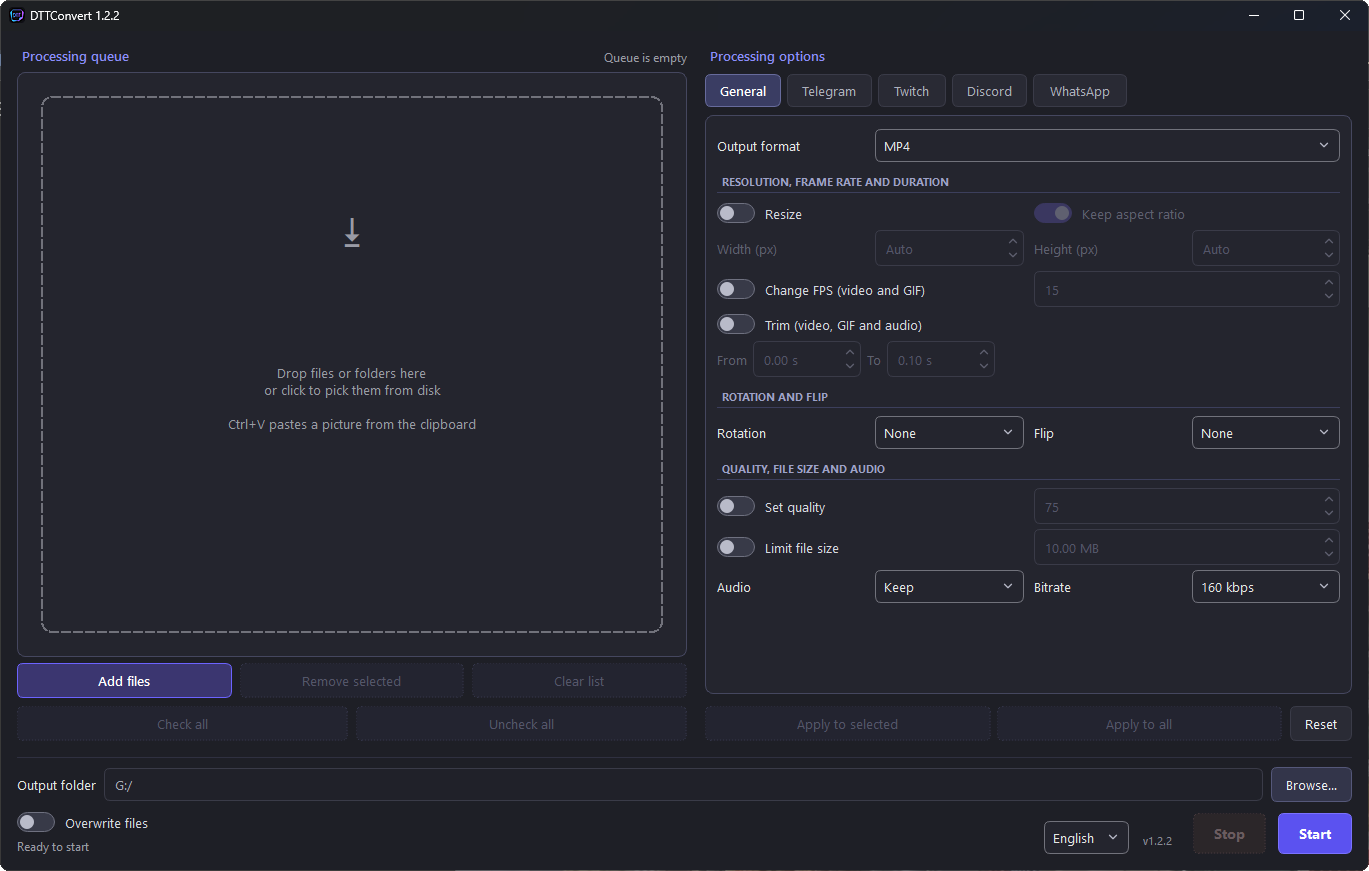
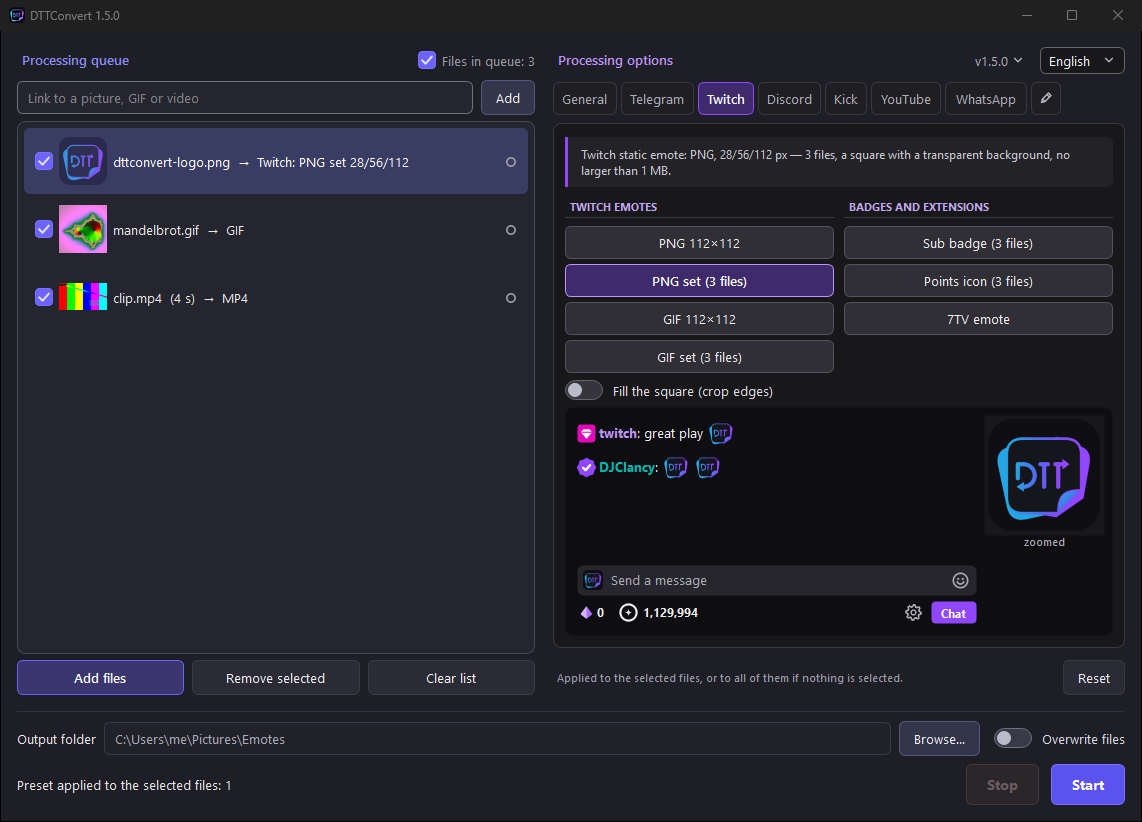
Repository layout, README header and GitHub templates
- Code moved to src/, icons to assets/, make_icon.py to tools/.
- README: centred header with the icon and badges, new screenshot,
  language switch is in the top-right corner.
- Issue templates for bugs and feature requests.
- Tests run on GitHub for every pull request and push to main.
- docs/social-preview.png — picture for links to the repository.

---

- Код перенесён в src/, значки — в assets/, make_icon.py — в tools/.
- README: шапка по центру со значком и бейджами, новый снимок окна,
  язык переключается в правом верхнем углу.
- Шаблоны задач: ошибка и пожелание.
- Тесты запускаются на GitHub при каждом PR и пуше в main.
- docs/social-preview.png — картинка для ссылок на репозиторий.

diff --git a/tools/make_icon.py b/tools/make_icon.py
@@ -14,7 +14,7 @@
 первый кадр контейнера, а не подходящий по размеру, и файл выглядел
 как размытые 16 px. Windows выбирает кадр по размеру, ей порядок неважен.
 
-Запуск после замены icon.png:  python make_icon.py
+Запуск после замены assets/icon.png:  python tools/make_icon.py
 """
 import io
 import os
@@ -22,8 +22,8 @@ import struct
 
 from PIL import Image, ImageFilter
 
-HERE = os.path.dirname(os.path.abspath(__file__))
-SRC = os.path.join(HERE, "icon.png")
+ASSETS = os.path.join(os.path.dirname(os.path.dirname(os.path.abspath(__file__))), "assets")
+SRC = os.path.join(ASSETS, "icon.png")
 
 # Набор размеров, которые Windows использует в проводнике, на панели задач
 # и в заголовке окна.
@@ -100,7 +100,7 @@ def main():
     source = Image.open(SRC).convert("RGBA")
     frames = [downscale(source, size) for size in SIZES]
 
-    ico_path = os.path.join(HERE, "icon.ico")
+    ico_path = os.path.join(ASSETS, "icon.ico")
     write_ico(frames, ico_path)
     print("создан:", ico_path, os.path.getsize(ico_path), "байт")
     print("размеры (первым идёт крупный):", [f.width for f in frames])

diff --git a/tests/test_core.py b/tests/test_core.py
@@ -8,7 +8,7 @@ import sys
 import tempfile
 
 PROJECT_DIR = os.path.dirname(os.path.dirname(os.path.abspath(__file__)))
-sys.path.insert(0, PROJECT_DIR)
+sys.path.insert(0, os.path.join(PROJECT_DIR, "src"))
 # Помощники тестов (tgs_fixture) лежат рядом с наборами.
 sys.path.insert(0, os.path.dirname(os.path.abspath(__file__)))
 WORK_ROOT = os.path.join(tempfile.gettempdir(), "mcs_tests")
@@ -829,7 +829,7 @@ def t_no_russian_literals_in_core():
     # Всё, что видит пользователь, должно идти через ключи перевода.
     import re
     for name in ("worker.py","ffmpeg_utils.py","image_utils.py","telegram_utils.py"):
-        src=open(os.path.join(PROJECT_DIR,name),encoding="utf-8").read()
+        src=open(os.path.join(PROJECT_DIR,"src",name),encoding="utf-8").read()
         for m in re.finditer(r"raise\s+\w*Error\(\s*f?\"([^\"]*)",src):
             assert not re.search("[а-яА-Я]",m.group(1)), f"{name}: {m.group(0)[:80]}"
 check("V3 в ядре не осталось ошибок с русским текстом вместо ключа", t_no_russian_literals_in_core)

diff --git a/src/main.py b/src/main.py
@@ -19,7 +19,10 @@ def resource_path(name):
     bundle_dir = getattr(sys, "_MEIPASS", None)
     if bundle_dir:
         directories.append(bundle_dir)
-    directories.append(os.path.dirname(os.path.abspath(__file__)))
+    source_dir = os.path.dirname(os.path.abspath(__file__))
+    directories.append(source_dir)
+    # Из исходников значки лежат в assets рядом с папкой src.
+    directories.append(os.path.join(os.path.dirname(source_dir), "assets"))
     directories.append(os.path.dirname(os.path.abspath(sys.executable)))
     for directory in directories:
         candidate = os.path.join(directory, name)

diff --git a/tests/test_features.py b/tests/test_features.py
@@ -8,7 +8,7 @@ import sys
 import tempfile
 
 PROJECT_DIR = os.path.dirname(os.path.dirname(os.path.abspath(__file__)))
-sys.path.insert(0, PROJECT_DIR)
+sys.path.insert(0, os.path.join(PROJECT_DIR, "src"))
 # Помощники тестов (tgs_fixture) лежат рядом с наборами.
 sys.path.insert(0, os.path.dirname(os.path.abspath(__file__)))
 WORK_ROOT = os.path.join(tempfile.gettempdir(), "mcs_tests")

diff --git a/tests/test_corners.py b/tests/test_corners.py
@@ -13,7 +13,7 @@ import sys
 import tempfile
 
 PROJECT_DIR = os.path.dirname(os.path.dirname(os.path.abspath(__file__)))
-sys.path.insert(0, PROJECT_DIR)
+sys.path.insert(0, os.path.join(PROJECT_DIR, "src"))
 WORK_ROOT = os.path.join(tempfile.gettempdir(), "mcs_tests")
 os.makedirs(WORK_ROOT, exist_ok=True)
 

diff --git a/tests/test_gui.py b/tests/test_gui.py
@@ -8,7 +8,7 @@ import sys
 import tempfile
 
 PROJECT_DIR = os.path.dirname(os.path.dirname(os.path.abspath(__file__)))
-sys.path.insert(0, PROJECT_DIR)
+sys.path.insert(0, os.path.join(PROJECT_DIR, "src"))
 WORK_ROOT = os.path.join(tempfile.gettempdir(), "mcs_tests")
 os.makedirs(WORK_ROOT, exist_ok=True)
 

diff --git a/tests/test_layout_min.py b/tests/test_layout_min.py
@@ -8,7 +8,7 @@ import sys
 import tempfile
 
 PROJECT_DIR = os.path.dirname(os.path.dirname(os.path.abspath(__file__)))
-sys.path.insert(0, PROJECT_DIR)
+sys.path.insert(0, os.path.join(PROJECT_DIR, "src"))
 WORK_ROOT = os.path.join(tempfile.gettempdir(), "mcs_tests")
 os.makedirs(WORK_ROOT, exist_ok=True)
 

diff --git a/tests/test_layout_normal.py b/tests/test_layout_normal.py
@@ -8,7 +8,7 @@ import sys
 import tempfile
 
 PROJECT_DIR = os.path.dirname(os.path.dirname(os.path.abspath(__file__)))
-sys.path.insert(0, PROJECT_DIR)
+sys.path.insert(0, os.path.join(PROJECT_DIR, "src"))
 WORK_ROOT = os.path.join(tempfile.gettempdir(), "mcs_tests")
 os.makedirs(WORK_ROOT, exist_ok=True)
 
